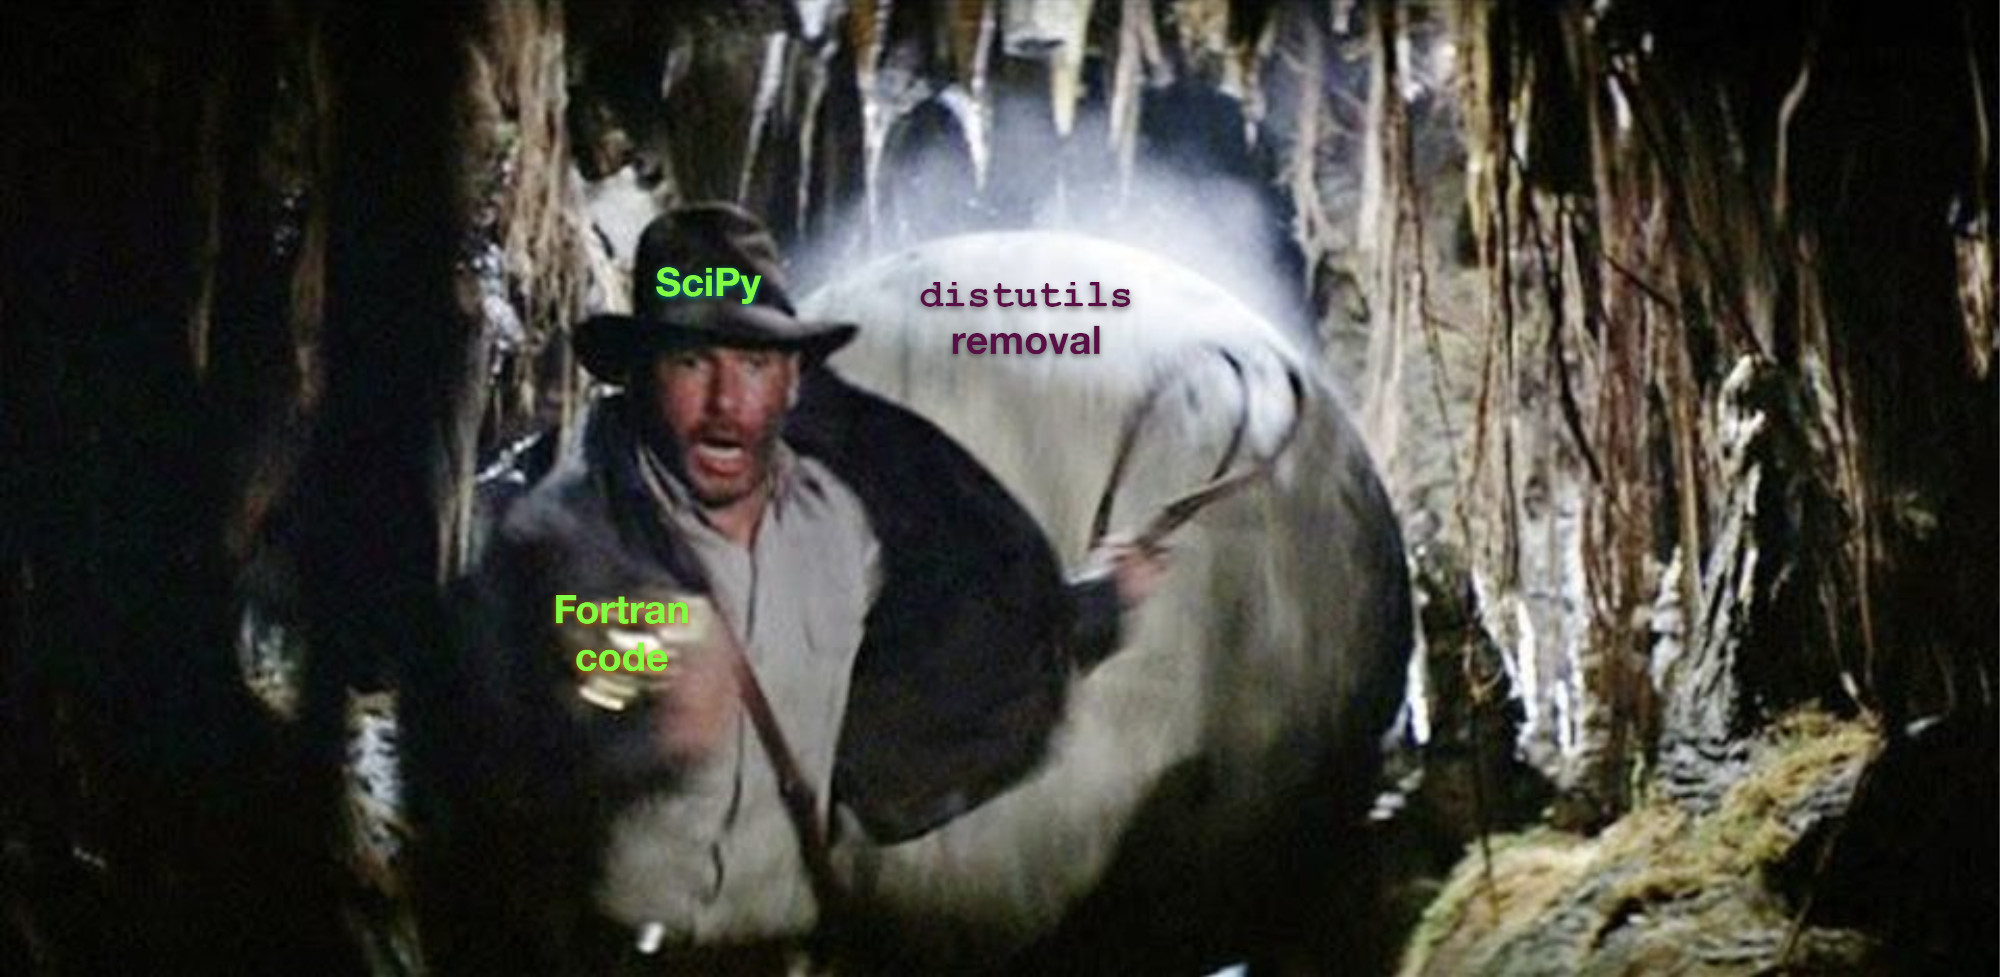
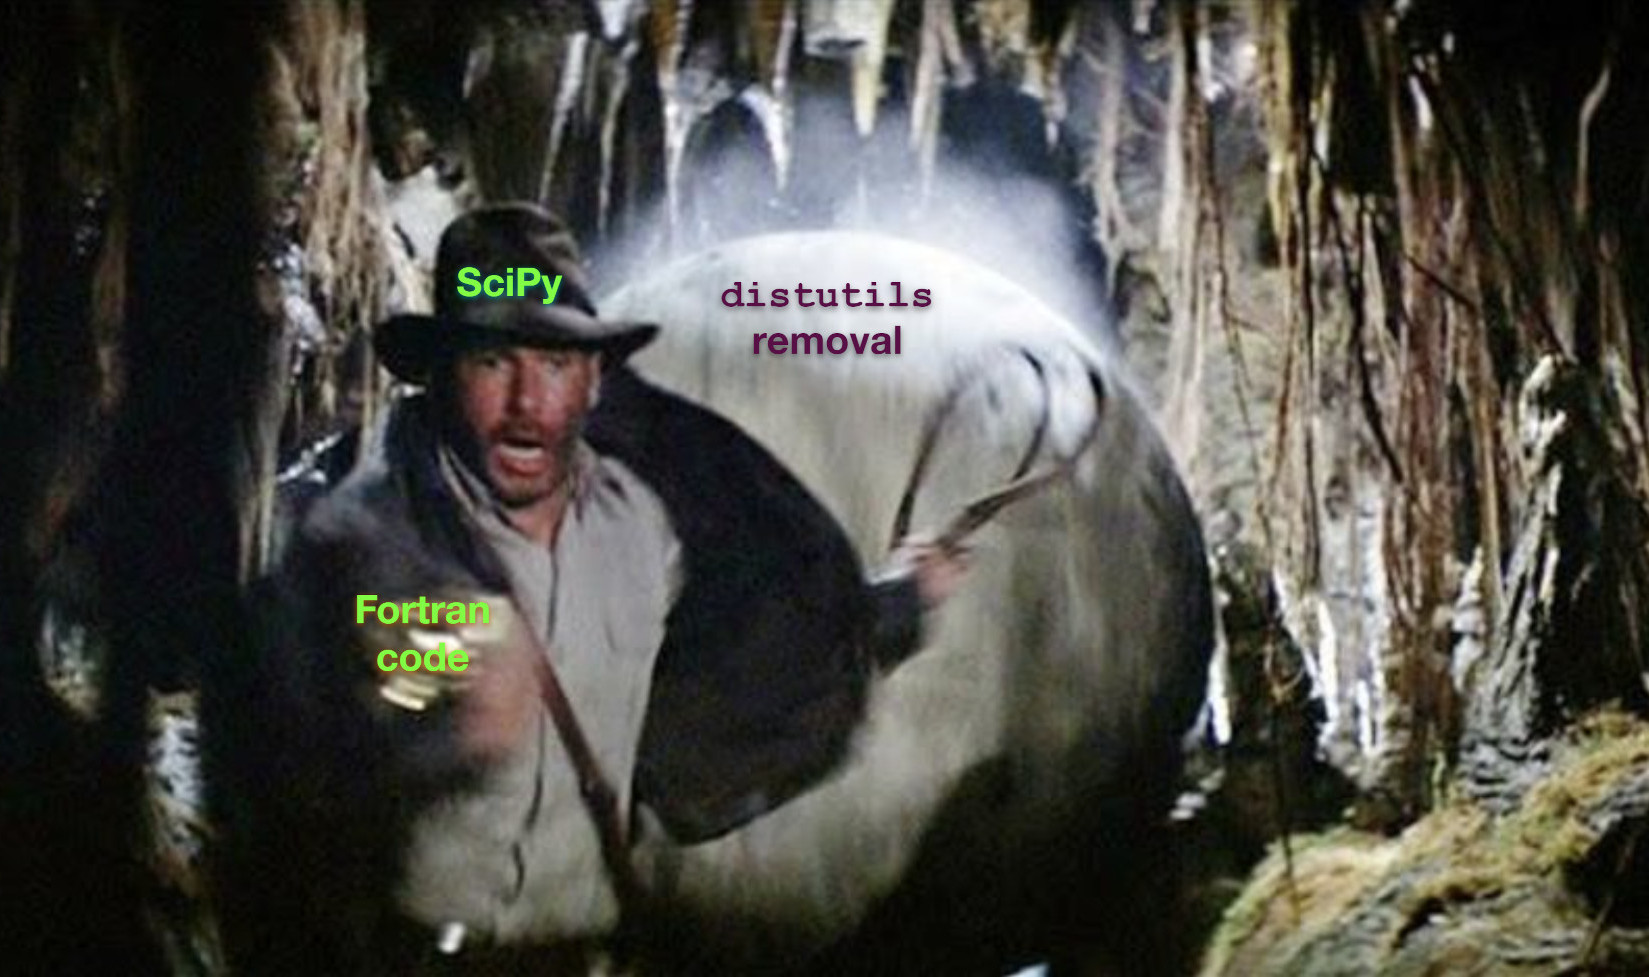
editing improvements
* use em-dash in title
* resize hero image a bit so it doesn't get chopped at the top
* slim indy a bit to improve preview readability
* improve colors of HTML table

diff --git a/apps/labs/posts/building-scipy-with-flang.md b/apps/labs/posts/building-scipy-with-flang.md
@@ -1,6 +1,6 @@
 ---
 title: >
-  The 'eu' in eucatastrophe -- Why SciPy builds for Python 3.12 on Windows are a minor miracle
+  The 'eu' in eucatastrophe – Why SciPy builds for Python 3.12 on Windows are a minor miracle
 published: November 5, 2023
 authors: [axel-obermeier]
 description: 'Moving SciPy to Meson meant finding a different Fortran compiler
@@ -46,7 +46,7 @@ We'll briefly shed some light on the following:
 
 - Why is Fortran still used in so many places?
 - How is that relevant to Python?
-- Why progress in Python packaging standardisation throws a wrench in the works.
+- Past struggles in NumPy/SciPy with vanilla Python packaging.
 - What role conda-forge plays in this context.
 
 If you feel you have a good-enough understanding of all this, or not much time,
@@ -102,9 +102,9 @@ been x86, but that has been changing in recent times).
 What GCC did was essentially cover an entire column of that matrix, rather than
 just 1-2 cells.
 
-<table>
-    <thead>
-        <tr>
+<table bgcolor="#efefef" cellpadding="10" border-color="#666666">
+    <thead bgcolor="#00327d">
+        <tr color="white">
             <th>👉 OS<br/>👇CPU Arch.</th>
             <th>Linux</th>
             <th>MacOS</th>
@@ -114,15 +114,16 @@ just 1-2 cells.
     <tbody>
         <tr>
             <td>x86_32</td>
-            <td rowspan="6">GCC</td>
-            <td rowspan="3">Apple Clang</td>
-            <td rowspan="3">MSVC<br/>(arm64 added recently)</td>
+            <td rowspan="6" bgcolor="#b6d7a8">GCC</td>
+            <td rowspan="3" bgcolor="#c9daf8">Apple Clang</td>
+            <td rowspan="2" bgcolor="#c9daf8">MSVC</td>
         </tr>
         <tr>
             <td>x86_64</td>
         </tr>
         <tr>
             <td>arm64</td>
+            <td border-style="dotted" bgcolor="#c9daf8">(added recently)</td>
         </tr>
         <tr>
             <td>aarch64</td>
@@ -165,7 +166,7 @@ and any compiled program is subject to this.
 
 ## Python
 
-I won't bore you with the history here, but the immediate thing to note is:
+We won't bore you with the history here, but the immediate thing to note is:
 you don't need a compiler to use Python. That's a blessing as well as a curse,
 because on the one hand, it dramatically lowers the difficulty of using it,
 and on the other hand, this makes Python slow compared to compiled languages.
@@ -385,7 +386,8 @@ combination that was in use in conda-forge.
 In fact, it looked like we were going to be completely boxed in.
 As of Python 3.12:
 
-- distutils would be gone, and setuptools incompatible with numpy.distutils.
+- `distutils` would be gone, and contemporary `setuptools` incompatible with
+  `numpy.distutils`.
 - Meson would refuse to work with the hack we had until now.
 - There were no free (and ABI-compatible) Fortran compilers on Windows _at all_.
 
@@ -519,7 +521,7 @@ So while the `distutils` removal was coming down the line like an oncoming
 freight train, all we could try to do is cross our fingers that _a_ Fortran
 compiler would be ready in time (most likely either llvm-flang or LFortran),
 and be as prepared as possible in terms of having all the other pieces ready to
-go – LLVM is a big baby, and keeping the compiler stack up to date consistently
+go – for example, LLVM is a big baby, and keeping the compiler stack up-to-date
 is a non-negligible effort.
 
 In addition to that, there are the normal FOSS constraints at play – no-one can
@@ -527,21 +529,21 @@ keep all the required knowledge in their head, so we need other people's
 feedback, but everyone's a volunteer, people have lives and other interests, or
 they're just plain busy with other things.
 
-As it happened, LLVM 17 was coming up, and it was the first release where Flang
-had matured enough to remove the `-flang-experimental-exec` flag, and was
-[estimated](https://discourse.llvm.org/t/proposal-rename-flang-new-to-flang/69462/33)
+As it happened, the release of LLVM 17.0 was coming up, which would be the first
+release where Flang had matured enough to remove the `-flang-experimental-exec`
+flag, and was [estimated](https://discourse.llvm.org/t/proposal-rename-flang-new-to-flang/69462/33)
 to be roughly "0.8 level maturity".
 As soon as we had the release candidates built in conda-forge, we tried to throw
 it at SciPy, only to realise that Meson did not support the new Flang yet.
 
 Even worse, it wasn't clear which ABI Flang was using (as mentioned above,
 conda-forge uses the MSVC ABI on Windows everywhere), not least because the
-Clang driver that Flang uses can use two different modes.
+Clang driver that Flang uses under the hood can target both modes.
 There's also two different standard libraries, two different runtime libraries
 and two different linkers to consider in all this.
 At this point, we still hadn't compiled more than a "Hello World!" example with
 Flang yet, so it wasn't even clear that it could compile all of SciPy, much
-less pass the test suite.
+less pass the test suite...
 
 ## Eucatastrophe
 
